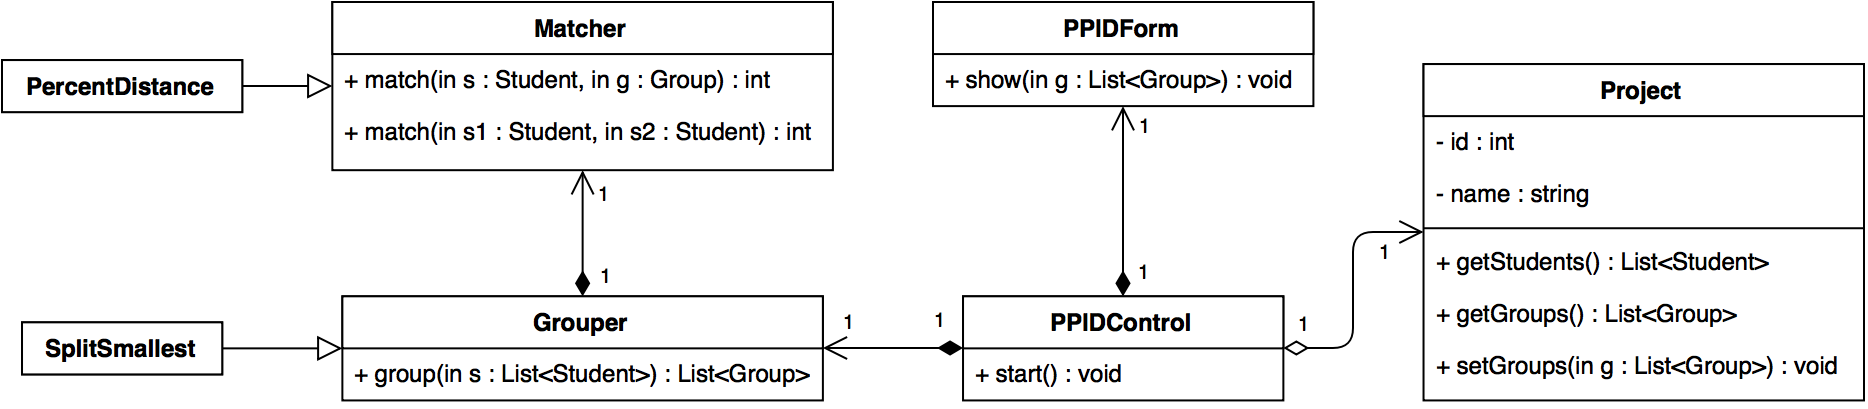
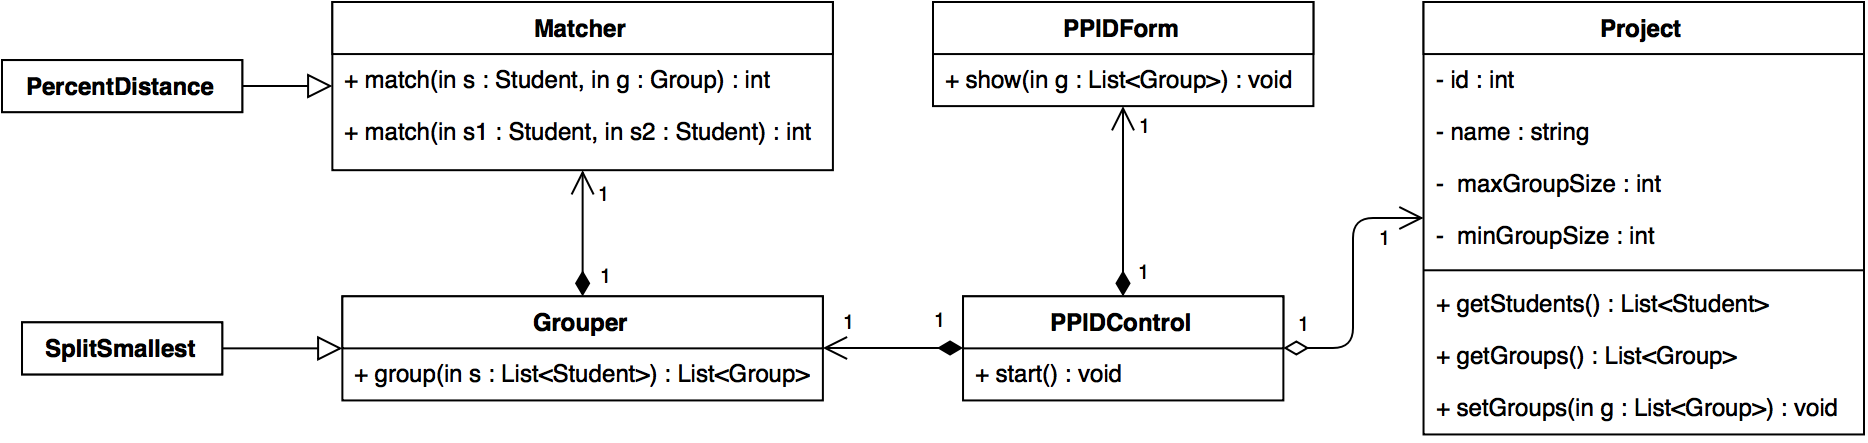
ProjectService diagram

diff --git a/docs/system-design-document.tex b/docs/system-design-document.tex
@@ -1472,7 +1472,7 @@ The following figure, \figureref{admin-class-diagram}, is a UML Class Diagram fo
 
 \begin{figure}[H]
 	\centering{}
-	\includegraphics[scale=0.37]{imgs/d3/interfaces/admin.png}
+	\includegraphics[scale=0.27]{imgs/d3/interfaces/admin.png}
 	\caption{AdminService Class Diagram (\ssref{admin})}
 	\figurelabel{admin-class-diagram}
 \end{figure}
@@ -1597,6 +1597,13 @@ The following table, \tableref{project-classes}, describes each of the classes i
 		\cdlabel{group}\cdref{group} & Group & A Group class is a class that has a collection or list of Student objects. Its methods revolve around adding new Students to the Group or removing Students from the Group.\\
 	\end{tabu}
 \end{table}
+
+\begin{figure}[H]
+	\centering{}
+	\includegraphics[scale=0.33]{imgs/d3/interfaces/project.png}
+	\caption{ProjectService Class Diagram (\ssref{project})}
+	\figurelabel{project-class-diagram}
+\end{figure}
 
 The following table, \tableref{project}, gives a detailed breakdown of the Project class. Included in the breakdown are the attributes, operations, and any traceability with operations, services, or subsystems.
 
